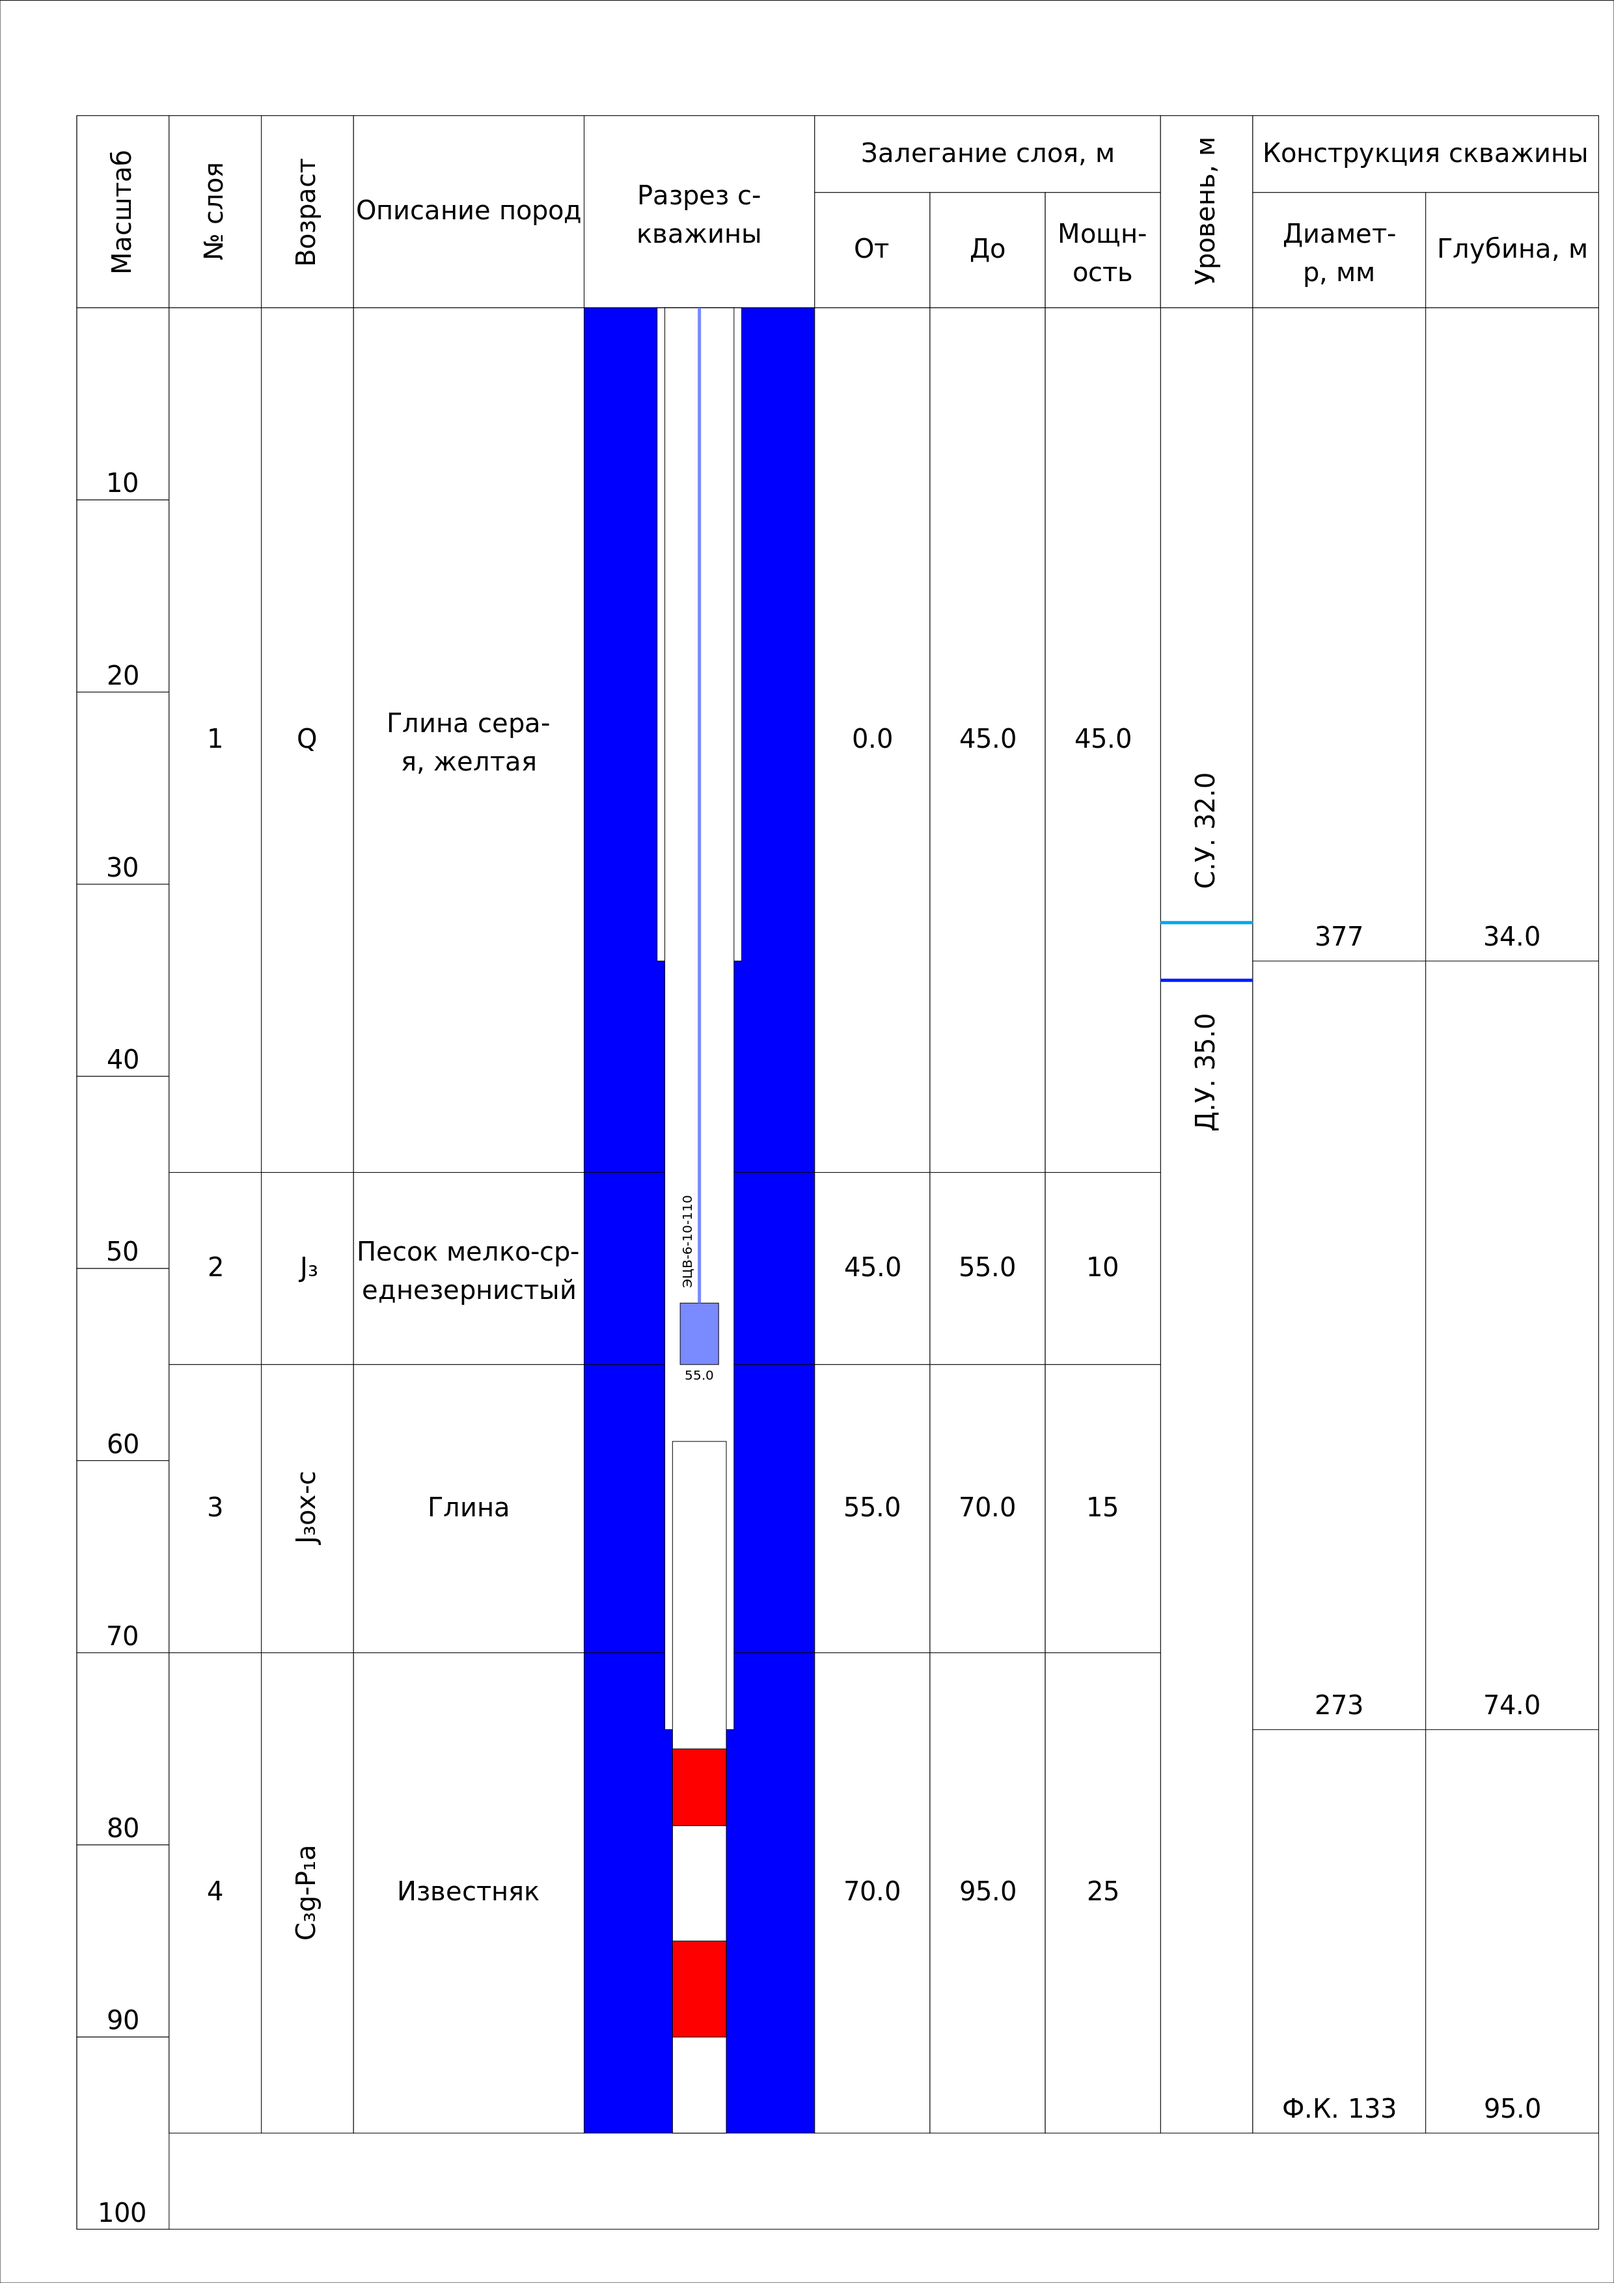
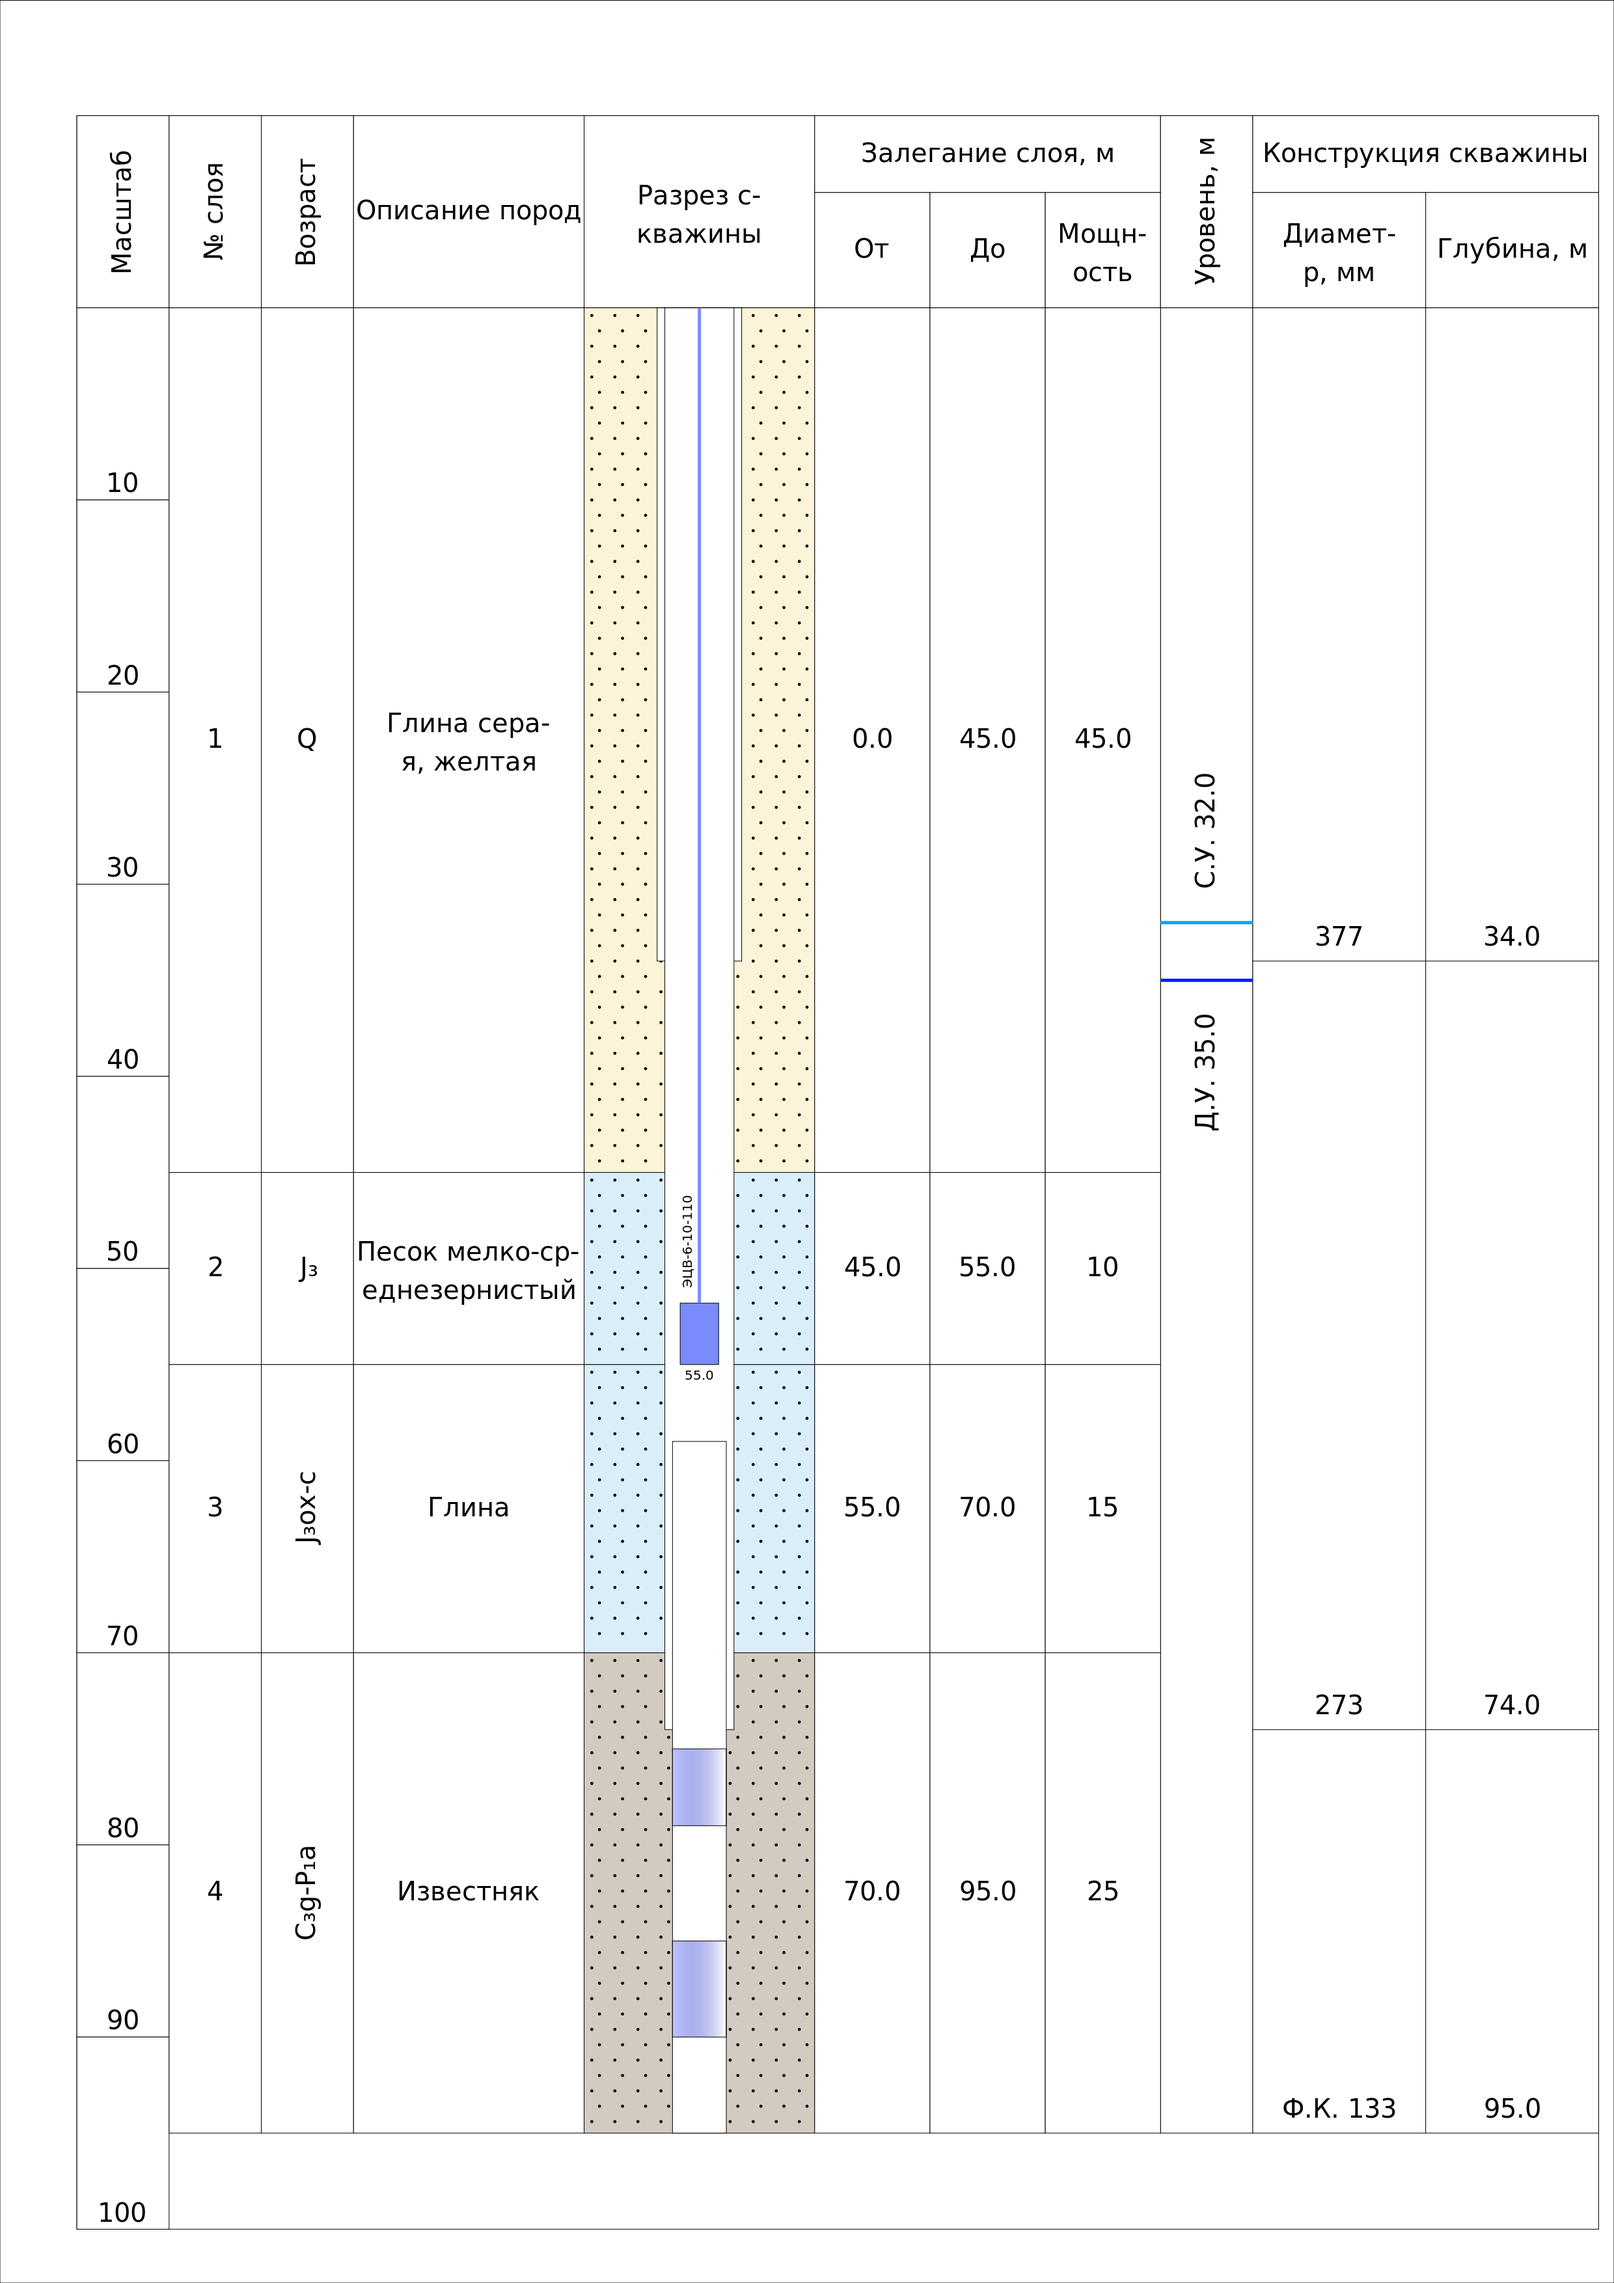
add sand speck for all layers

Changed region(s): [[0.3415, 0.1243, 0.5278, 0.9322]]

diff --git a/drawing/index_colours.py b/drawing/index_colours.py
@@ -1,0 +1,46 @@
+# расчленение по цветам выполнено на основании общей геохронологической шкалы
+# ВСЕГЕИ https://vsegei.ru/ru/info/stratigraphy/stratigraphic_scale/
+# Четвертичные отложения - Девонские отложения (за исключением палеогена)
+def colour(index):
+    if 'Q' in index:
+        return '#fcf4d8'
+    elif index[:2] == 'N2' in index or index[:2] == 'N\u2082' in index:
+        return '#f9f3d9'
+    elif index[:2] == 'N1' in index or index[:2] == 'N\u2081' in index or index[:1] == 'N' in index:
+        return '#f3edd3'
+    elif index[:2] == 'K2' in index or index[:2] == 'K\u2082' in index:
+        return '#f4f7dd'
+    elif index[:2] == 'K1' in index or index[:2] == 'K\u2081' in index or index[:1] == 'K' in index:
+        return '#d7f0c1'
+    elif 'J3' in index or 'J\u2083' in index:
+        return '#daeef9'
+    elif 'J2' in index or 'J\u2082' in index:
+        return '#b5d0ec'
+    elif 'J1' in index or 'J\u2081' in index or 'J' in index:
+        return '#b5c8e9'
+    elif 'T3' in index or 'T\u2083' in index:
+        return '#f2daf1'
+    elif 'T2' in index or 'T\u2082' in index:
+        return '#e5b9e5'
+    elif 'T1' in index or 'T\u2081' in index or 'T' in index:
+        return '#dbb6e8'
+    elif index[:2] == 'P3' in index or index[:2] == 'P\u2083' in index:
+        return '#fce4c2'
+    elif index[:2] == 'P2' in index or index[:2] == 'P\u2082' in index:
+        return '#fcdab4'
+    elif index[:2] == 'P1' in index or index[:2] == 'P\u2081' in index or index[:1] == 'P' in index:
+        return '#fcd7b2'
+    elif 'C3' in index or 'C\u2083' in index:
+        return '#d3cac1'
+    elif 'C2' in index or 'C\u2082' in index:
+        return '#b0a29d'
+    elif 'C1' in index or 'C\u2081' in index or 'C' in index:
+        return '#b0a29d'
+    elif 'D3' in index or 'D\u2083' in index:
+        return '#f7d6bb'
+    elif 'D2' in index or 'D\u2082' in index:
+        return '#e4c0a4'
+    elif 'D1' in index or 'D\u2081' in index or 'D' in index:
+        return '#e4b8a4'
+    else:
+        return 'none'

diff --git a/drawing/main.py b/drawing/main.py
@@ -1,4 +1,6 @@
 import drawSvg as draw
+from index_colours import colour
+from specks import speck
 import math
 
 # размер листа А4 при плотности пикселей 300 dpi
@@ -201,8 +203,11 @@ def layers(d, well_depth, dt):
         rectangle(d, x_start, y_start, 30, -
                   data[i]['thick']*scale_m, data[i]['sediments'], 'h')
         x_start += 30
+        layer_fill = colour(data[i]['name'])
         rectangle(d, x_start, y_start, 30, -
-                  data[i]['thick']*scale_m, 'blue', 'f')
+                  data[i]['thick']*scale_m, layer_fill, 'f')
+        speck(d, x_start, y_start, 30,
+                  data[i]['thick']*scale_m, 'none')
         x_start += 30
         # подумать как убрать подписи вниз (к низу прямоугольника)
         rectangle(d, x_start, y_start, 15, -
@@ -254,8 +259,12 @@ def well(d, well_dt):
             filter = column['filter']
             i_f = 1
             while i_f in filter:
+                # отрисовка градиента фильтра и интервалов
+                gradient = draw.LinearGradient(x_start*koef, (257 - filter[i_f]['from']*scale_m)*koef,(x_start+d_start)*koef,(257 - filter[i_f]['from']*scale_m)*koef)
+                gradient.addStop(0, '#bdc4ff', 1)
+                gradient.addStop(1, '#0315b5', 0)
                 rectangle(d, x_start, 257 - filter[i_f]['from']*scale_m, d_start,
-                          (filter[i_f]['from'] - filter[i_f]['till'])*scale_m, 'red', 'f')
+                          (filter[i_f]['from'] - filter[i_f]['till'])*scale_m, gradient, 'f')
                 i_f += 1
         elif column['type'] == 'О.С.':
             # надо добавить построение открытого ствола

diff --git a/drawing/test.py b/drawing/test.py
@@ -1,16 +1,27 @@
-well_dt = {'well_data': {
-    'columns': {
-        1: {'id': 1, 'D': 377, 'from': 0.0, 'till': 34.0, 'type': 'обсадная'},
-        2: {'id': 2, 'D': 273, 'from': 0.0, 'till': 74.0, 'type': 'обсадная'},
-        3: {'id': 3, 'D': 273, 'from': 70.0, 'till': 95.0, 'type': 'фильтровая', 'filter': {
-            1: {'id': 1, 'from': 75.0, 'till': 79.0},
-            1: {'id': 2, 'from': 85.0, 'till': 90.0},
-        }}
-    },
-    'pump_type': 'ЭЦВ-6-10-110',
-    'pump_depth': 55.0,
-    'static_lvl': 32.0,
-    'dynamic_lvl': 35.0,
-    'well_depth': 95.0
-}}
-print(well_dt['well_data']['columns'][1])
+import drawSvg as draw
+width = 100
+height = 100
+d = draw.Drawing(width, height, origin=(0, 0), displayInline=False)
+
+with open('new-fill.svg', 'r') as file:
+    raw_svg = file.read()
+    raw_latex_1 = raw_svg.replace('<?xml version=\'1.0\'?>', '')
+    raw_rendered_svg_1 = draw.Raw(raw_latex_1)
+#o = draw.Image(0, 0, 100, 100, raw_rendered_svg_1)
+#d.append(o)
+
+pattern = draw.Raw(f'''
+<defs>
+  <pattern id="pattern1"
+           x="0" y="0" width="100" height="100"
+           patternUnits="userSpaceOnUse" >
+    {raw_rendered_svg_1}
+        <circle cx="10" cy="10" r="10"
+            style="stroke: #0000ff; fill: url(#pattern1)"/>
+  </pattern>
+</defs>''')
+d.append(pattern)
+r = draw.Rectangle(0, 0, 100, 100,
+                    fill='url(#pattern1)', stroke='black')
+d.append(r)
+d.saveSvg('example_2.svg')

diff --git a/drawing/specks.py b/drawing/specks.py
@@ -1,0 +1,39 @@
+import math
+import drawSvg as draw
+# отрисовка геологических крапов
+# ГОСТ 21.302-2013
+koef = 2480/210
+# d = draw.Drawing(210*koef, 297*koef, origin=(0, 0), displayInline=False)
+"""x = 100
+y = 100
+width = 30
+height = 30
+sediments = ('пески', 'глины', 'известняки')"""
+
+
+def speck(d, x, y, width, height, sediments):
+    # пески
+    # смещение по горизонтали, вертикали, изменение смещения по горизонтали
+    delta_x = 3*koef
+    delta_y = 2*koef
+    delta = 0
+    indent = 1
+    i = 1
+    # стартовые значения (пока для песков)
+    y_start = (y - indent) * koef
+    while y_start > (y - height + indent) * koef:
+        x_start = (x + delta + indent) * koef
+        while x_start < (width + x - indent) * koef:
+            c = draw.Circle(x_start, y_start, 0.2*koef, fill='black')
+            d.append(c)
+            x_start += delta_x
+        i += 1
+        if i % 2 == 1:
+            delta -= 1
+        else:
+            delta += 1
+        y_start -= delta_y
+    # d.savePng('spec.png')
+
+
+# speck(d, x, y, width, height, sediments)

diff --git a/drawing/test_2.py b/drawing/test_2.py
@@ -1,0 +1,1 @@
+print(1%2)
